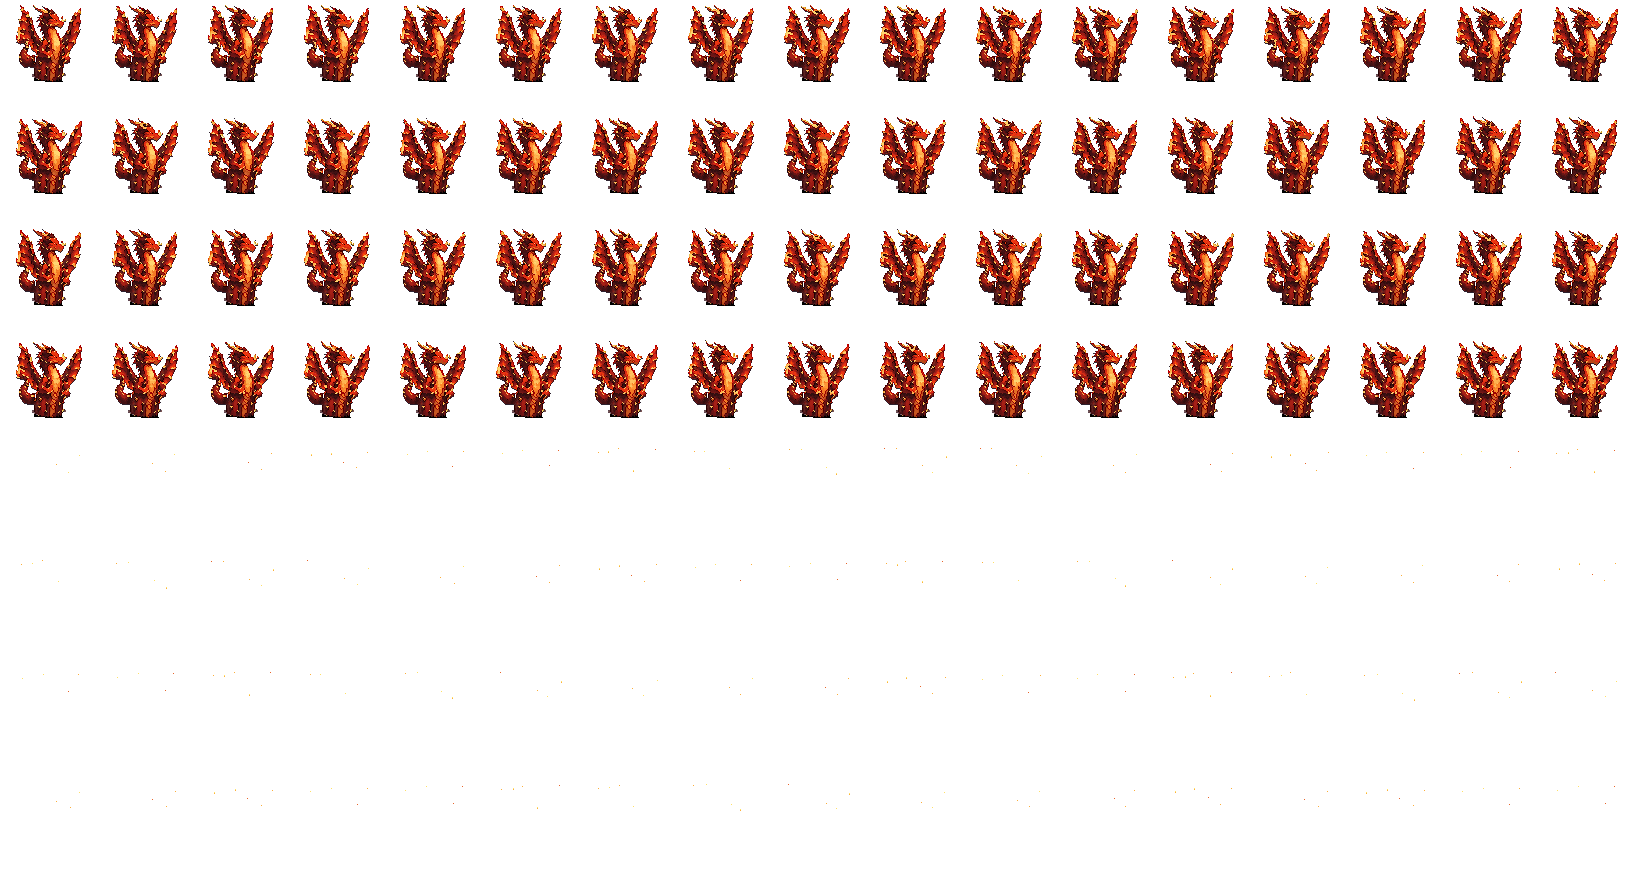
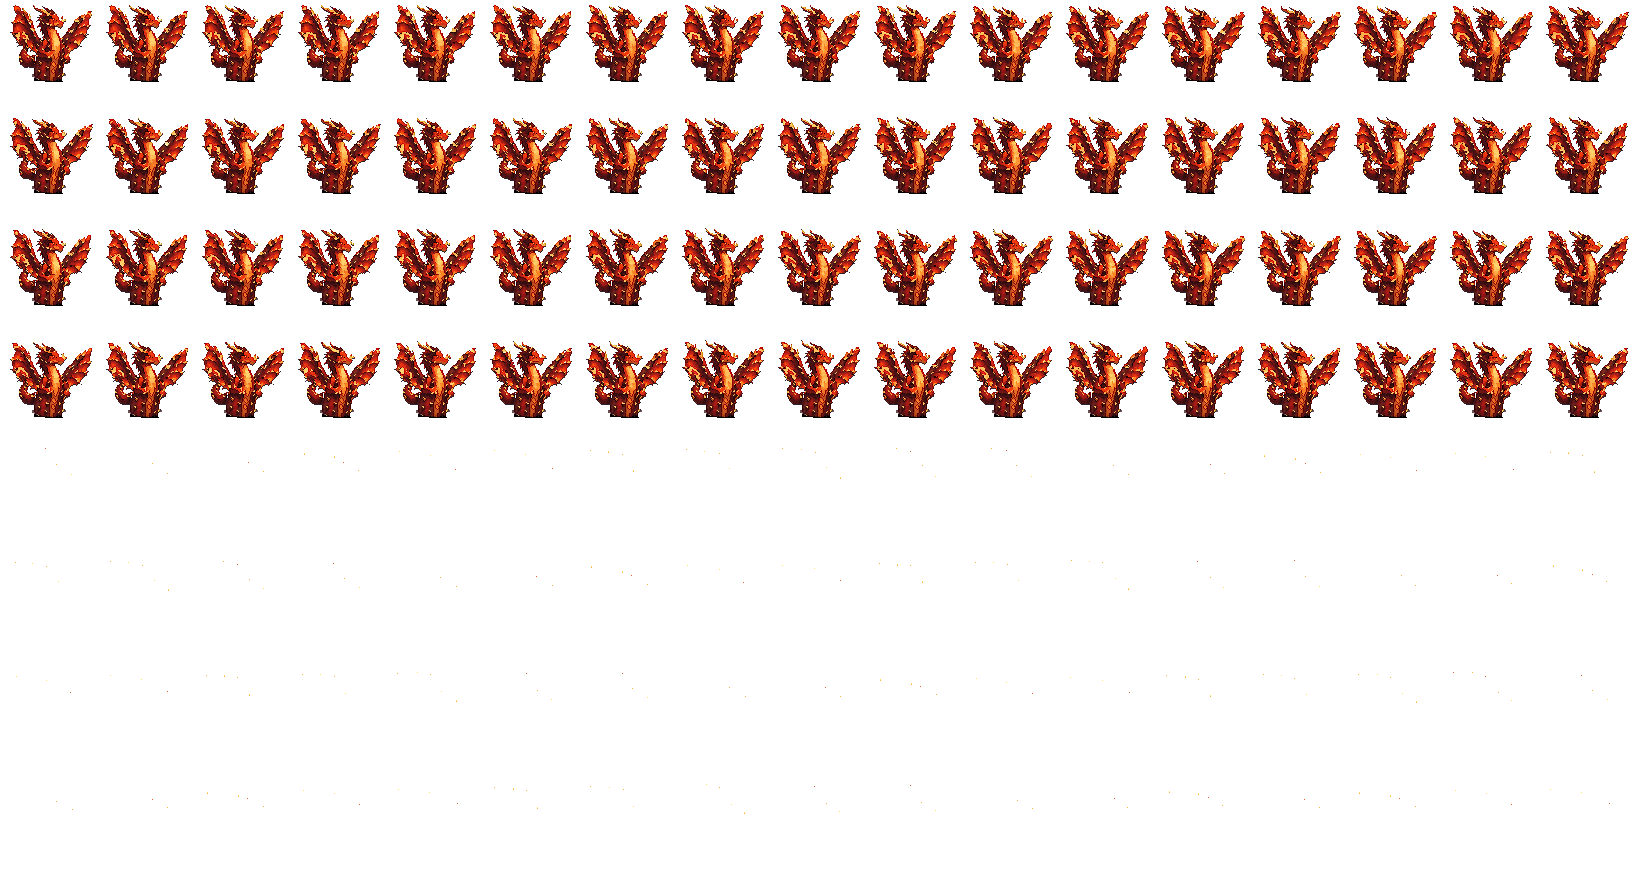
드레이크캑터 성체 날개 크고 넓게(wingscale.py — 날개만 떼어 폭 ×1.5 · 바깥으로 벌림, 뿌리는 그대로) · 위저드벨 · 닌자바인 · 장승캑터 자람 다시(상징 하나만 작게) · 새 무기 상성 다시(화염 방사 셈 없음 · 불 · 물 안 듦, 석궁 번개 셈) · 전투 '안 듦'은 다 곱한 값 < 1일 때만 (사용자 '날개만 더 크고 넓게' · '2와 3생장 차이가 작아' · '새 무기도 상성 고민')

diff --git a/v2/src/battle/matchup.js b/v2/src/battle/matchup.js
@@ -12,10 +12,10 @@ export const WEAPON_TYPES = {
   blade: { name: '칼', strong: ['grass'], resist: ['earth', 'water'] },           // 덩굴 · 잎을 벰 / 돌에 날이 무뎌짐 · 물은 벨 수 없음
   hammer: { name: '망치', strong: ['ice', 'earth'], resist: ['water'] },          // 얼음을 깸 · 바위를 부숨 / 쳐도 갈라졌다 다시 붙음
   gun: { name: '총', strong: ['fire'], resist: ['wind', 'water'] },               // 불길에 다가가지 않고 멀리서 / 바람에 빗나감 · 물속에선 느려짐
-  flamer: { name: '화염방사', strong: ['ice'], resist: ['wind', 'water'] },       // 얼음을 녹임 / 불길이 되돌아옴 · 불이 꺼짐
+  flamer: { name: '화염방사', strong: [], resist: ['fire', 'water'] },            // 불 속성이 이미 풀 · 빙결 · 바람에 셈(×1.5) / 불 식물은 안 탐 · 물에 꺼짐 — 2026-10-17 사용자 "새로 추가한 무기도 상성을 고민해줘": 빙결 셈(속성과 겹쳐 ×1.875) · 바람 안 듦(불 > 바람과 부딪힘) 뺌
   spear: { name: '번개 창', strong: ['water'], resist: ['grass'] },               // 전기 작살 / 덤불에 창끝이 걸림(번개 무기 = 물에 안 듦 없음)
   rocket: { name: '로켓포', strong: ['earth'], resist: ['water', 'wind'] },       // 폭발이 흙더미 · 바위를 날려 버림 / 물에선 안 터짐 · 바람에 휨(사용자 "광역으로 로켓포")
-  xbow: { name: '석궁', strong: ['wind'], resist: ['water', 'earth'] },           // 무거운 화살이 바람을 뚫음 / 물에 막힘 · 바위에 튕김(사용자 "석궁도")
+  xbow: { name: '석궁', strong: ['wind', 'bolt'], resist: ['water', 'earth'] },   // 무거운 화살이 바람을 뚫음 · 나무 화살이라 감전 걱정 없이 멀리서(번개 = 무기 변이의 천적에 맞설 카드) / 물에 막힘 · 바위에 튕김(사용자 "석궁도")
 };
 // 무기 기술 → 종류(변이 카드 + 태생 무기 식물 블레이드바인의 베기 기술)
 export const SKILL_WEAPON = {

diff --git a/v2/src/scenes/battle.js b/v2/src/scenes/battle.js
@@ -469,7 +469,7 @@ export const battle = {
     if (e.tier !== 'hit') this.pop(st.to, label, tone, t, false, e.tier === 'crit' ? -36 : -16);   // 보통 맞힘(정타)은 글자 없이 숫자만
     if (great) this.pop(st.to, '효과 굉장!', 'gold', t, false, e.tier === 'crit' ? -52 : -32);
     else if (e.tier !== 'miss' && e.mult > 1.01) this.pop(st.to, '상성!', 'gold', t, false, e.tier === 'crit' ? -52 : -32);   // 변이 상성(2026-10-17)
-    if (e.tier !== 'miss' && e.mult && e.mult / (great ? 1.5 : 1) < 0.99) this.pop(st.to, '안 듦', 'sub', t, false, e.tier === 'crit' ? -52 : -32);   // 무기 안 듦(×0.8)
+    else if (e.tier !== 'miss' && e.mult && e.mult < 0.99) this.pop(st.to, '안 듦', 'sub', t, false, e.tier === 'crit' ? -52 : -32);   // 무기 안 듦(×0.8) — 다 곱한 값이 1보다 작을 때만('효과 굉장!'과 같이 뜨지 않게 · 2026-10-17)
     if (e.guard) this.pop(st.to, '막음', null, t, false, great ? -48 : -32, '#8ccfff');
     if (e.absorb) { this.pop(st.to, `보호막 -${e.absorb}`, null, t, false, -30, '#8ccfff'); if (e.list) v.eff[st.to] = e.list; sfxAdd(v.sfx, st.to, 'shieldHit', t); sfx('shieldHit'); }
   },

diff --git a/tools/pixel/big/wingscale.py b/tools/pixel/big/wingscale.py
@@ -1,0 +1,107 @@
+# 원화에서 날개(몸 뒤에 붙은 큰 부분)만 키우기(2026-10-17 사용자 "성체 불 선인장 용 날개만 더 크고 넓었으면")
+#   python tools/pixel/big/wingscale.py <원화.png> <결과.png> <설정.json> [--mask=<확인용.png>]
+#   설정 = { "pad": [왼, 위, 오른, 아래],
+#            "front": [{"seed": [x, y], "cut": [x, 0], "dy": -190}],
+#            "wings": [{"seed": [x, y], "cut": [[x1, y1], [x2, y2]], "ramp": 120, "pivot": [x, y], "tip": [x, y], "along": 1.08, "perp": 1.5, "rot": 8}] }
+#   날개 = cut 선(두 점)의 seed 쪽에서 seed와 이어진 덩어리(알파 > 16 · 8방향)
+#   변환 = 뿌리(pivot) 둘레로 뿌리 → 끝(tip) 방향 along배 · 그 직각 perp배 · 바깥으로 rot도. cut 선에서는 안 움직이고 ramp 칸에 걸쳐 점점 다 바뀜
+#     (한 번에 통째로 옮기면 cut 선에 잘린 자국 · 틈이 보였음 — 2026-10-17 첫 시험)
+#   그리는 차례 = 키운 날개(뒤) → 몸(원화 − 날개 − 앞 조각) → 앞 조각(front: 꼬리처럼 날개 앞에 오는 것, x < cut[0]인 seed 덩어리를 dx · dy만큼 옮겨)
+#   좌표는 pad 전 원화 기준. pad를 넣으면 eyes.mjs 등 원화 좌표를 쓰는 표도 왼쪽 · 위 pad만큼 옮길 것
+import sys, json, math
+sys.stdout.reconfigure(encoding="utf-8")
+import numpy as np
+from PIL import Image
+from scipy import ndimage
+
+src, dst, cfgp = sys.argv[1], sys.argv[2], sys.argv[3]
+maskp = next((a.split('=', 1)[1] for a in sys.argv[4:] if a.startswith('--mask=')), None)
+cfg = json.load(open(cfgp, encoding='utf-8'))
+im = np.array(Image.open(src).convert('RGBA'))
+H, W = im.shape[:2]
+a = im[..., 3]
+yy, xx = np.mgrid[0:H, 0:W]
+S8 = np.ones((3, 3))
+
+def comp(region, seed):
+    lab, _ = ndimage.label(region, structure=S8)
+    sid = lab[seed[1], seed[0]]
+    assert sid > 0, f'seed {seed} 비었음'
+    return ndimage.binary_dilation(lab == sid, iterations=2) & (a > 0) & ndimage.binary_dilation(region, iterations=2)
+
+fronts = []
+for f in cfg.get('front', []):
+    fronts.append((comp((a > 16) & (xx < f['cut'][0]), f['seed']), f.get('dx', 0), f.get('dy', 0)))
+taken = np.zeros((H, W), bool)
+for m, _, _ in fronts: taken |= m
+
+pl, pt, pr, pb = cfg.get('pad', [0, 0, 0, 0])
+OW, OH = W + pl + pr, H + pt + pb
+def padded(arr):
+    out = np.zeros((OH, OW) + arr.shape[2:], arr.dtype); out[pt:pt + H, pl:pl + W] = arr; return out
+
+wings = []
+for w in cfg['wings']:
+    cuts = w['cuts'] if 'cuts' in w else [w['cut']]   # 여러 선이면 모두의 seed 쪽(교집합) · 점점 바뀌는 거리는 ramp_line 번째 선(뿌리 = 어깨)만
+    region = (a > 16) & ~taken
+    lines = []
+    for (x1, y1), (x2, y2) in cuts:
+        nx_, ny_ = -(y2 - y1), (x2 - x1); nl = math.hypot(nx_, ny_); nx_, ny_ = nx_ / nl, ny_ / nl
+        sg = 1 if (w['seed'][0] - x1) * nx_ + (w['seed'][1] - y1) * ny_ > 0 else -1
+        region &= sg * ((xx - x1) * nx_ + (yy - y1) * ny_) > 0
+        lines.append((x1 + pl, y1 + pt, nx_ * sg, ny_ * sg))
+    m = comp(region, w['seed'])
+    wings.append((m, w, lines[w.get('ramp_line', 0)]))
+    print('날개 칸', int(m.sum()), '범위', xx[m].min(), xx[m].max(), yy[m].min(), yy[m].max())
+
+body = im.copy()
+for m, _, _ in wings: body[m] = 0
+for m, _, _ in fronts: body[m] = 0
+canvas = np.zeros((OH, OW, 4), float)
+
+def over(dstA, srcA):   # 둘 다 곧은 알파(0~1) RGBA float → 위에 덮기
+    sa = srcA[..., 3:4]; da = dstA[..., 3:4]; oa = sa + da * (1 - sa)
+    rgb = np.where(oa > 0, (srcA[..., :3] * sa + dstA[..., :3] * da * (1 - sa)) / np.maximum(oa, 1e-6), 0)
+    return np.concatenate([rgb, oa], -1)
+
+QY, QX = np.mgrid[0:OH, 0:OW].astype(float)
+for m, w, (cx, cy, nx_, ny_) in wings:
+    piece = im.astype(float) / 255; piece[~m] = 0
+    pm = padded(piece)
+    pre = np.concatenate([pm[..., :3] * pm[..., 3:4], pm[..., 3:4]], -1)   # 미리 곱한 알파로 뽑아야 가장자리가 안 검어짐
+    P = np.array(w['pivot'], float) + [pl, pt]; T = np.array(w['tip'], float) + [pl, pt]
+    u = (T - P) / np.linalg.norm(T - P); v = np.array([-u[1], u[0]])
+    th = math.radians(w.get('rot', 0)) * (-1 if T[0] < P[0] else 1)        # 끝이 몸 바깥으로 가게
+    Rm = np.array([[math.cos(th), -math.sin(th)], [math.sin(th), math.cos(th)]])
+    A = Rm @ (w['along'] * np.outer(u, u) + w['perp'] * np.outer(v, v))
+    D = float(w.get('ramp', 120))
+    def disp(X, Y):   # 원본 칸 → 옮길 거리(점점)
+        d = (X - cx) * nx_ + (Y - cy) * ny_
+        t = np.clip(d / D, 0, 1); k = t * t * (3 - 2 * t)
+        dx, dy = X - P[0], Y - P[1]
+        TX = P[0] + A[0, 0] * dx + A[0, 1] * dy; TY = P[1] + A[1, 0] * dx + A[1, 1] * dy
+        return k * (TX - X), k * (TY - Y)
+    px, py = QX.copy(), QY.copy()
+    for _ in range(40):                       # q = p + disp(p) 를 p에 대해 풂(고정점 반복)
+        ddx, ddy = disp(px, py); px, py = QX - ddx, QY - ddy
+    ddx, ddy = disp(px, py); err = np.hypot(px + ddx - QX, py + ddy - QY)
+    samp = np.stack([ndimage.map_coordinates(pre[..., c], [py, px], order=1, mode='constant', cval=0) for c in range(4)], -1)
+    samp[err > 0.75] = 0
+    al = samp[..., 3:4]
+    layer = np.concatenate([np.where(al > 0, samp[..., :3] / np.maximum(al, 1e-6), 0), al], -1)
+    canvas = over(canvas, layer)
+canvas = over(canvas, padded(body.astype(float) / 255))
+for m, dx, dy in fronts:
+    piece = np.zeros_like(im); ys, xs = np.where(m)
+    ny2, nx2 = ys + dy, xs + dx; ok = (ny2 >= 0) & (ny2 < H) & (nx2 >= 0) & (nx2 < W)
+    piece[ny2[ok], nx2[ok]] = im[ys[ok], xs[ok]]
+    canvas = over(canvas, padded(piece.astype(float) / 255))
+out = Image.fromarray(np.clip(canvas * 255 + 0.5, 0, 255).astype(np.uint8))
+out.save(dst)
+print('결과', dst, '크기', out.size, '범위', out.getbbox())
+if maskp:
+    vis = Image.new('RGBA', (W, H), (40, 40, 80, 255)); vis.alpha_composite(Image.fromarray(im))
+    ov = np.zeros((H, W, 4), np.uint8)
+    for k, (m, _, _) in enumerate(wings): ov[m] = [0, 255, 120, 120] if k == 0 else [0, 160, 255, 120]
+    for m, _, _ in fronts: ov[m] = [255, 220, 0, 120]
+    vis.alpha_composite(Image.fromarray(ov)); vis.convert('RGB').save(maskp)

diff --git a/tools/pixel/big/concept/stages_raw2/TEEN3_PROMPT.md b/tools/pixel/big/concept/stages_raw2/TEEN3_PROMPT.md
@@ -1,0 +1,25 @@
+(2026-10-17 사용자 "마법사 풀 · 닌자 · 선인장 장승이 2와 3생장에서 외형 차이가 작아 — 확인하고 변화를 줘" → 셋의 자람(teen)만 다시. 첫 판 자람은 성체 상징을 거의 다 갖춘 '조금 작은 성체'였음 → 상징 하나만 작게 · 몸 비율을 다르게. 첫 판 = stages_raw2/v1/<키>_teen.png.
+ 결과 → `node tools/pixel/big/greycut.mjs stages_raw2/<키>_teen.png stages/<키>_teen.png --main`.)
+
+Task: redraw ONLY the TEEN (middle) evolution stage of the 3 plant creatures below. For each creature, open only these two images and no other image file: its ADULT C:\dev\pulloseum\tools\pixel\big\concept\new9\<key>.png and its YOUNG C:\dev\pulloseum\tools\pixel\big\concept\stages_raw2\<key>_young.png, so the new teen sits clearly between them in the same family (same colors, materials and eye style). Do not open the old teen images.
+
+THE PROBLEM TO FIX: the previous teens looked almost the same as the adult - they already had nearly all of the adult's signature parts, so growing from teen to adult felt like no change. The new TEEN must be a clearly different MIDDLE form, like a middle stage in a monster-collecting evolution line: the body plan is changing from the young toward the adult, ONLY ONE signature part has begun to appear and it is small and unfinished, and the proportions differ from both the young and the adult. A player must see a big, exciting jump from this teen to the adult. Height about 80 to 85 percent of the adult's.
+
+Same drawing rules as the adult and young:
+- Camera: view from the front and slightly above (about 25 degrees down), like a plant in a flower pot seen by someone standing in front of it - not from below.
+- Pose and gaze: the body faces the front, but the head is turned slightly (about 20 degrees) to one side and the eyes look naturally toward that side - it does not stare into the camera. A relaxed, characterful stance with slight asymmetry.
+- Bold, readable shapes; taller than wide; the lower stem narrows to about one third of the image width where it meets the soil line at the very bottom, so it fits in a small pot. Keep every part attached to the body - no separate floating effect lines, swirls or particles.
+- Eyes clearly visible and big enough to survive at pixel size. Never glowing eyes in dark holes, no eyebrows, no fangs.
+- Full, high-detail painterly illustration quality: warm rim light from above, soft gradients, hue-shifted shading (cool shadows, warm highlights). No pure black, no neon overload.
+- Plain flat light grey background (#d9d9d9) filling the whole image, no gradient, no texture. No flower pot, no soil, no ground shadow, no props on the ground. The base of the creature ends cleanly at a flat soil line at the bottom, as if it grows out of soil that is not drawn.
+- Full body, centered, filling most of the frame. Square image about 1024x1024 (or 1254x1254), no text, no labels, no watermark, no frame.
+
+Creatures (key - adult it grows into / the new TEEN):
+
+1. wizard_bell - adult = a bell-flower wizard with a tall crooked star-spotted hat, a long glowing star wand and a cape of drooping purple leaves. NEW TEEN = an apprentice: the bell flower is only half open (still partly a bud), wearing a simple soft rounded cap made of one curled indigo petal - short, not tall, not crooked, no star spots. NO wand at all (its leaf hands are empty and slightly curled). NO cape - just two plain green leaves at the sides. A rounder head on a thicker, shorter stem. The only hint of magic: two tiny yellow sparks attached at the cap tip.
+
+2. ninja_vine - adult = a vine ninja with a navy cloth mask over the face, a long red trailing scarf and two shuriken leaves. NEW TEEN = a trainee: one single twisted vine body, thinner and with fewer coils than the adult. The young's dark leaf hood has grown into a hood covering the top and back of the head, but the face is fully visible - NO face mask. A short red scarf wrapped once around the neck, with only a short stub end (no long trailing scarf). NO shuriken at all (the vine hands are empty and curled). Eyes alert and eager.
+
+3. jangseung_cactus - adult = a carved village-guardian totem cactus with a wide carved grin, a tall black scholar's hat and a vertical carved band. NEW TEEN = a guardian still being carved: a column cactus a bit taller and thicker than the young; on its face only the big round eyes are carved so far, with a small closed mouth line (NO wide grin yet). NO vertical carved band on the body. NO hat: instead, a small tuft of two dark leaves sprouts on top where the hat will grow later. Small leafy sprigs at the sides.
+
+Save each as C:\dev\pulloseum\tools\pixel\big\concept\stages_raw2\<key>_teen.png. If the image tool saves elsewhere, copy it there with that name. If a file with that name already exists, skip it. Generate each image only once, no redraws. Do not create, modify or delete any other file, do not commit. When done, reply with the list of saved files.

diff --git a/docs/superpowers/specs/2026-10-17-v2-mutation-matchup.md b/docs/superpowers/specs/2026-10-17-v2-mutation-matchup.md
@@ -26,11 +26,14 @@
 | 칼(베기) | 칼날 베기 · 달군 칼날(불) · 블레이드바인 베기 기술 | 풀(덩굴 · 잎을 벰) | 대지(돌에 날이 무뎌짐) · 물(물은 벨 수 없음) |
 | 망치(내려치기) | 쇠망치 내려치기 | 빙결(얼음을 깸) · 대지(바위를 부숨) | 물(쳐도 갈라졌다 다시 붙음) |
 | 총(쏘기) | 가시 탄환 | 불(불길에 다가가지 않고 멀리서 쏨) | 바람(바람에 빗나감) · 물(물속에선 탄환이 느려짐) |
-| 화염방사(새) | 화염 방사(새 무기 카드 — 불 · 멀리 · 여럿 · 화상) | 빙결(얼음을 녹임) | 바람(불길이 되돌아옴) · 물(불이 꺼짐) |
+| 화염방사(새) | 화염 방사(새 무기 카드 — 불 · 멀리 · 여럿 · 화상) | —(불 속성이 이미 풀 · 빙결 · 바람에 ×1.5) | 불(불 식물은 안 탐) · 물(불이 꺼짐) |
 | 창(번개) | 번개 창(번개) | 물(전기 작살) | 풀(덤불에 창끝이 걸림) |
 | 로켓포(새 · 여럿) | 로켓포(새 무기 카드 — 멀리 · 여럿 · 60 × 한 번) | 대지(폭발이 흙더미 · 바위를 날려 버림) | 물(물에선 안 터짐) · 바람(바람에 휨) |
-| 석궁(새) | 석궁(새 무기 카드 — 멀리 · 85 × 두 번) | 바람(무거운 화살이 바람을 뚫음) | 물(물에 막힘) · 대지(바위에 튕김) |
+| 석궁(새) | 석궁(새 무기 카드 — 멀리 · 85 × 두 번) | 바람(무거운 화살이 바람을 뚫음) · 번개(나무 화살 — 감전 걱정 없이 멀리서) | 물(물에 막힘) · 대지(바위에 튕김) |
 - 로켓포 · 석궁 = 사용자 "무기에 광역으로 로켓포도 넣고 석궁도 넣자"(같은 날). 총이 바람에 약한 자리를 석궁이 메움.
+- **새 무기 상성 다시(같은 날 사용자 "새로 추가한 무기도 상성을 고민해줘"):** ① 화염 방사는 불 속성이라 이미 풀 · 빙결 · 바람에 ×1.5 → 무기 종류 셈 '빙결'을 빼고(얹으면 ×1.875로 얼음 식물만 크게 손해), '바람 안 듦'도 뺌(속성 '불 > 바람'과 부딪혀 화면에 '효과 굉장!' · '안 듦'이 같이 떴음) → 안 듦 = 불 · 물. ② 석궁에 번개 셈 — 번개는 무기 변이의 천적(무기 ← 번개 ×1.25)인데 무기 카드 중 번개에 센 게 없었음. ③ 로켓포는 그대로(대지 셈 · 물 · 바람 안 듦). ④ 화면: '안 듦'은 다 곱한 값이 1보다 작을 때만.
+- 아직 남은 부딪힘(제안만 · 사용자 결정 전): 번개 창 '풀 안 듦'도 속성 '번개 > 풀'과 부딪힘(×1.5 × 0.8 = 1.2). 바꾼다면 안 듦 = 대지(전기가 땅으로 빠짐 — 대지가 번개를 막는 흔한 그림).
+- 무기 종류별 속성 셈 · 안 듦 수(바꾼 뒤): 불 셈 1(총) · 안 듦 1(화염) / 물 셈 1(창) · 안 듦 6 / 풀 셈 1(칼) · 안 듦 1(창) / 대지 셈 2(망치 · 로켓) · 안 듦 2(칼 · 석궁) / 바람 셈 1(석궁) · 안 듦 2(총 · 로켓) / 번개 셈 1(석궁) · 안 듦 0 / 빙결 셈 1(망치) · 안 듦 0.
 - 번개 무기는 물에 안 듦이 없음(사용자 "번개 속성의 무기는 다른 걸로"). 속성 배율과 곱함(달군 칼날 → 풀 = 불 1.5 × 칼 1.25).
 
 ### 속성마다 이기는 수 − 지는 수(지금 속성표 + ㉯ 안 3, 무기 종류 빼고)

diff --git a/docs/CHANGELOG.md b/docs/CHANGELOG.md
@@ -2,6 +2,11 @@
 
 > CLAUDE.md에서 분리한 전체 개발 로그. 최신 작업이 맨 위. 과거 맥락이 필요할 때만 읽으세요.
 
+### 2026-10-17 (48) — 드레이크캑터 성체 날개 크고 넓게 · 새 식물 셋 자람 다시 · 새 무기 상성 다시
+- **날개(사용자 "성체 불 선인장 용 날개만 더 크고 넓었으면"):** `tools/pixel/big/wingscale.py` — 날개 덩어리만 떼어 뿌리 둘레로 폭 ×1.5 · 길이 ×1.08/1.04 · 바깥으로 8°/13° 벌림, 뿌리(어깨 선)에서는 안 움직이고 120~140칸에 걸쳐 점점(한 번에 옮기면 잘린 자국 · 틈이 보였음), 오른날개는 자르는 선 둘(머리와 날개 사이 빈 곳 · 어깨). 원화 왼쪽 120 · 오른쪽 140칸 덧댐 → `eyes.mjs` drake_cactus x +120. 날개 무게로 잰 몸 축이 −2.0°가 돼 자동 돌려 세우기가 꺼짐 → `ROT drake_cactus: −3.3`(예전과 같게). 결과 = 축척 · 키 71칸 그대로, 폭 16~81 → 10~91, 화분 밖 26칸 그대로.
+- **자람 다시(사용자 "마법사 풀 · 닌자 · 선인장 장승이 2와 3생장에서 외형 차이가 작아"):** 위저드벨 · 닌자바인 · 장승캑터 자람만 코덱스로 다시(`stages_raw2/TEEN3_PROMPT.md` — 상징 하나만 작게: 모자만 · 두건 + 짧은 목도리 · 머리 잎 두 장, 첫 판 = `stages_raw2/v1/`). 게임엔 아직(새 식물 아홉 넣을 때 같이).
+- **새 무기 상성(사용자 "새로 추가한 무기도 상성을 고민해줘"):** 화염 방사 = 셈 없음(불 속성이 이미 셋에 셈) · 안 듦 불 · 물(바람 안 듦은 '불 > 바람'과 부딪혀 뺌), 석궁 셈에 번개 더함(무기 변이 천적에 맞설 카드), 로켓포 그대로. 전투 '안 듦'은 다 곱한 값 < 1일 때만(전엔 '효과 굉장!'과 같이 뜰 수 있었음). 표 = 상성 문서. 시험 matchup · cards · status · loadout · edgecases · team3v3 · pvp3 · league · explore · rules 13 통과.
+
 ### 2026-10-17 (47) — 용 둘 진화 그림 새로(뱀 → 이무기 → 용 · 알 → 깨어나는 새끼 → 새끼 용) · 드레이크캑터 성체 꼬리만 위로 · 배경 빼기 '막힌 구멍' 경고
 - **진화(사용자 "일단 용만 좀 수정해줘 코덱스로"):** 코덱스가 `stages_raw2/`에 넷 → greycut → 눈 다시 잼(`eyes.mjs` drake_cactus_young · teen 새 값, frost_drake_young · teen 새로) → 흙 앉히기(SINK 드레이크 3 · 3, 프로스트 5 · 4 — 말린 꼬리 · 알이라 덜/더) · 뱀 줄기 STEM +2 → 묶음. 프로스트드레이크도 단계 그림이 생겨 `STAGED_KEYS = ROSTER`(30종 모두).
 - **이무기 고리 안 배경(사용자 "중간 용 꼬리 말린 가운데 부분이 하얀색에 배경이 있어"):** 고리 안 배경이 그늘져 greycut 기본 허용치(0.012) 밖이라 남았음 → `--hole=0.035`로 지움. greycut이 이제 지운 배경과 안 닿은 배경 같은 색 덩어리(140칸 이상 · 90% 거리 < 0.045)를 경고(`⚠ 막힌 곳에 배경 같은 색`) — 옅은 꽃잎도 걸릴 수 있어 확대해 보고 판단(plant-sprite 스킬).
